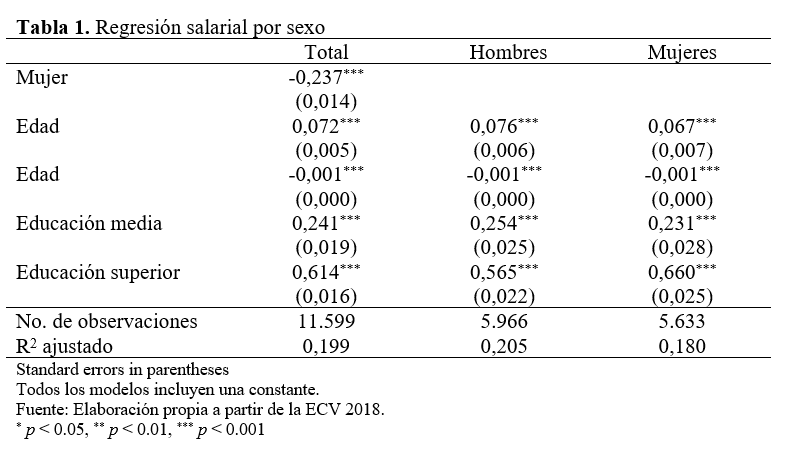
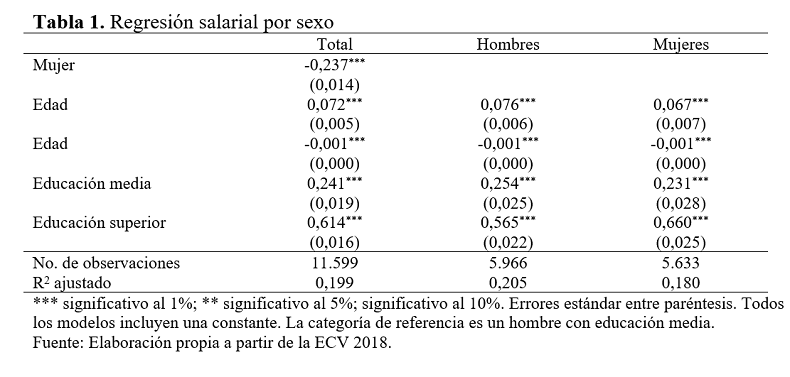
update 18 april 2021

diff --git a/stata5.html b/stata5.html
@@ -197,14 +197,15 @@ Nivel medio  │   .2314164   .0282288     8.20   0.000      .176077    .2867557
 > title(\fs24{\b Tabla 1.} {Regresión salarial por sexo}) /// Título de la tabla
 > nonumbers mtitles("Total" "Hombres" "Mujeres") /// Títulos de las columnas
 > nonotes /// Eliminar las notas por defecto
-> addnote("*** significativo al 1%; ** significativo al 5%; significativo al 10%. Errores estándar entre paréntesis. Todos los modelos incluyen una constante. 
-> La categoría de referencia es un hombre con educación media." "Fuente: Elaboración propia a partir de la ECV 2018.") ///
+> addnote("*** significativo al 1%; ** significativo al 5%; significativo al 10%. Errores estándar entre paréntesis. Todos los modelos incluyen
+>  una constante. La categoría de referencia es un hombre con educación media." "Fuente: Elaboración propia a partir de la ECV 2018.") ///
 > replace
 (note: file salarios2aux.rtf not found)
 (output written to salarios2aux.rtf)
 
 . 
-. unicode convertfile "salarios2aux.rtf" "salarios2.rtf", dstencoding(ISO-8859-1) replace // Posibilidad de utilizar caracteres que no son unicode
+. unicode convertfile "salarios2aux.rtf" "salarios2.rtf", dstencoding(ISO-8859-1) replace // Posibilidad de utilizar caracteres que no son unic
+> ode
 note: file "salarios2aux.rtf" converted to file "salarios2.rtf"
 
 . erase "salarios2aux.rtf" // Borramos el archivo auxiliar creado
@@ -347,7 +348,7 @@ note: file "salarios2aux.rtf" converted to file "salarios2.rtf"
 <p>Una opción excelente para configurar nuestro flujo de trabajo es utilizar <a href="https://es.wikipedia.org/wiki/LaTeX">LaTeX</a> para escribir nuestros textos. Es un sistema de composición de textos de código abierto que emplea comandos de TeX, un lenguaje de nivel bajo con comandos muy elementales. La principal desventaja de LaTeX es que no se trata de un procesador WYSIWYG (“lo que ves es lo que obtienes”), sino que se basa en instrucciones. Esto implica que el contenido está separado de la forma, lo cual puede ser una ventaja. Como el contenido es básicamente texto plano, podemos integrar output en texto plano que obtengamos de otros programas, como <code>Stata</code>. La gran ventaja de LaTeX es la altísima calidad de los documentos, especialmente apreciable en trabajos que requieran el empleo de fórmulas matemáticas. Por esta razón, es una herramienta de edición profesional. Otras ventajas, no exclusivas de este sistema, se refieren a la gestión de la bibliografía.</p>
 <p>La integración de <code>Stata</code> y LaTeX en nuestro flujo de trabajo es sencilla. Requerimos únicamente una distribución y un editor de TeX y generar resultados e incluso fragmentos de texto que puedan ser directamente incluidos en LaTeX. Las principales distribuciones de TeX son <a href="https://miktex.org/">MiKTeX</a> y <a href="https://www.tug.org/texlive/">TeX Live</a>. Existen muchos editores de TeX gratuitos, como <a href="https://www.texstudio.org/">TeXstudio</a>, <a href="https://www.xm1math.net/texmaker/">Texmaker</a> o <a href="https://www.lyx.org/">LyX</a>. Mediante alguna herramienta como <a href="https://www.dropbox.com">Dropbox</a> o <a href="https://www.google.es/drive/">Google Drive</a> podemos lograr un muy buen sistema de trabajo reproducible colaborativo.</p>
 <p>Otra opción es optar por <a href="https://www.overleaf.com/">Overleaf</a>. Se trata un editor online que incorpora la distribución de TeX Live. No requiere instalar ninguna distribución ni editor en nuestro equipo, permite la colaboración en tiempo real (como Google Docs, al contrario que Dropbox) e incluye control de versiones. Existe una versión gratuita, en la que algunas de sus capacidades no están disponibles. Debido a que no requiere instalación local, lo emplearemos en los siguientes ejemplos, aunque hagan que el flujo de trabajo sea menos fluido que con una instalación local, ya que, además, no disponemos de la versión de pago (que incluye la sincronización con Dropbox y GitHub, un sistema de control de versiones que comentaremos en la siguiente sección).</p>
-<p>Para poner en marcha este tipo de flujo, vamos a emplear el paquete <code>estout</code>, mencionado en la sección anterior, y el paquete paquete texdoc <span class="citation" data-cites="Jann2016">(Jann, 2016)</span>, que nos va a pemitir crear textos planos con resultados de <code>Stata</code> que vamos a poder llevar a nuestro editor de LaTeX. La idea básica es que <code>Stata</code> genere archivos de texto plano reconocibles por LaTeX y almacenarlos en una carpeta de nuestro proyecto. Posteriormente, en el editor de LaTeX, utilizaremos el comando <code>input{}</code> para incluir el archivo generado. La mayor parte del formato resultante del texto incluido será responsabilidad de LaTeX, que habremos configurado previamente. En general, mi consejo es únicamente crear en <code>Stata</code> de las filas con la información estadística y diseñar el resto de la tabla en el editor de LaTeX.</p>
+<p>Para poner en marcha este tipo de flujo, vamos a emplear el paquete <code>estout</code>, mencionado en la sección anterior, y el paquete paquete <code>texdoc</code> <span class="citation" data-cites="Jann2016">(Jann, 2016)</span>, que nos va a pemitir crear textos planos con resultados de <code>Stata</code> que vamos a poder llevar a nuestro editor de LaTeX. La idea básica es que <code>Stata</code> genere archivos de texto plano reconocibles por LaTeX y almacenarlos en una carpeta de nuestro proyecto. Posteriormente, en el editor de LaTeX, utilizaremos el comando <code>input{}</code> para incluir el archivo generado. La mayor parte del formato resultante del texto incluido será responsabilidad de LaTeX, que habremos configurado previamente. En general, mi consejo es únicamente crear en <code>Stata</code> de las filas con la información estadística y diseñar el resto de la tabla en el editor de LaTeX.</p>
 
 <pre class='stata'>. //    Establecemos la coma como decimal
 . 
